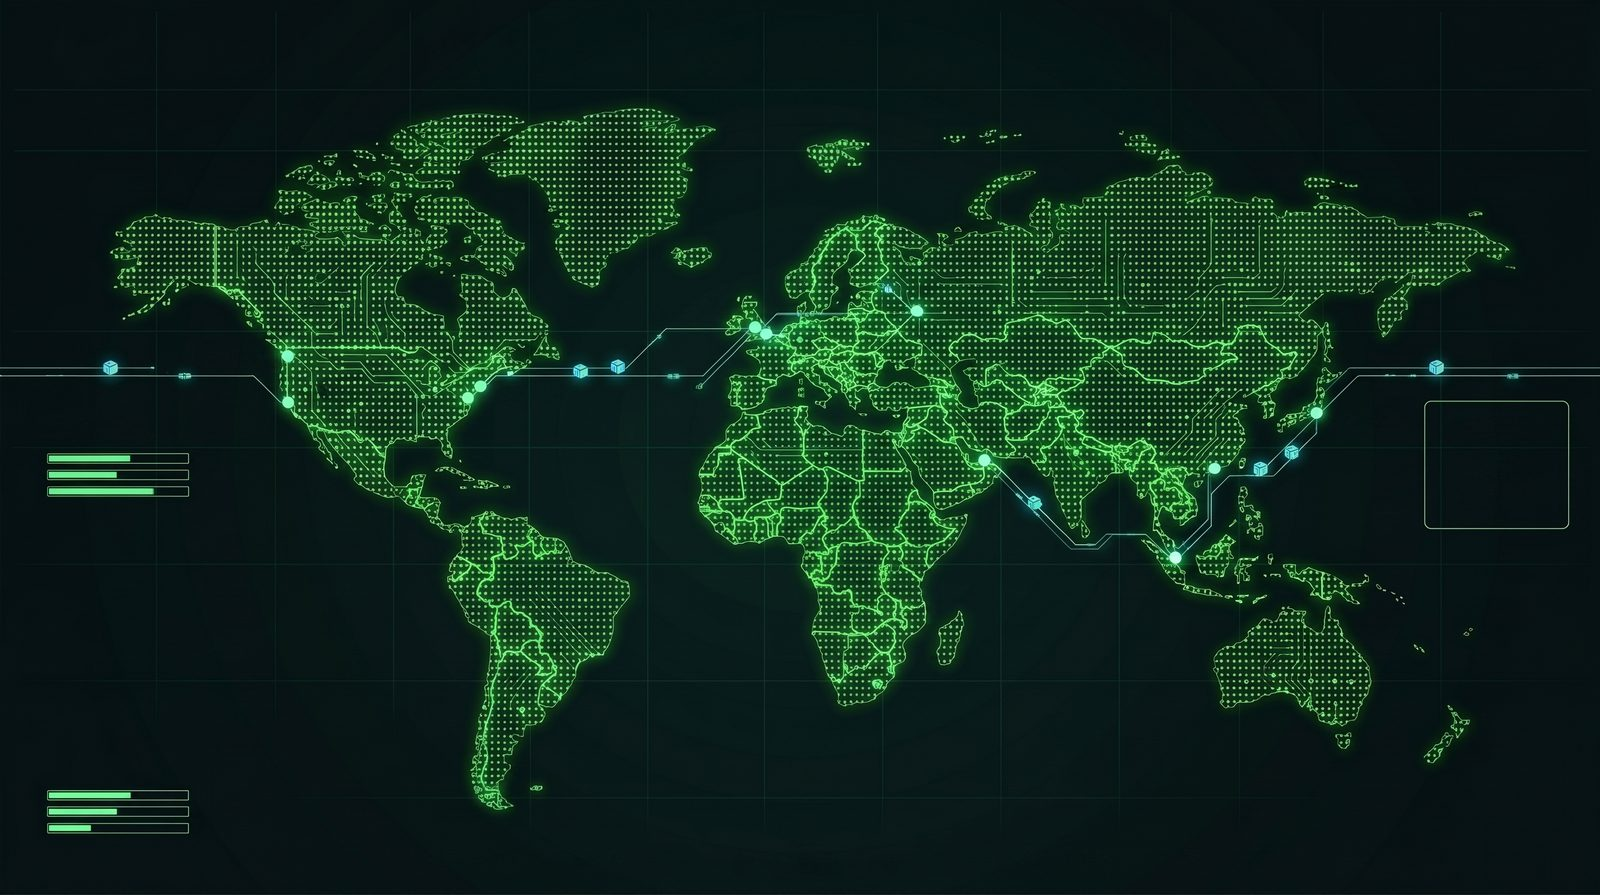
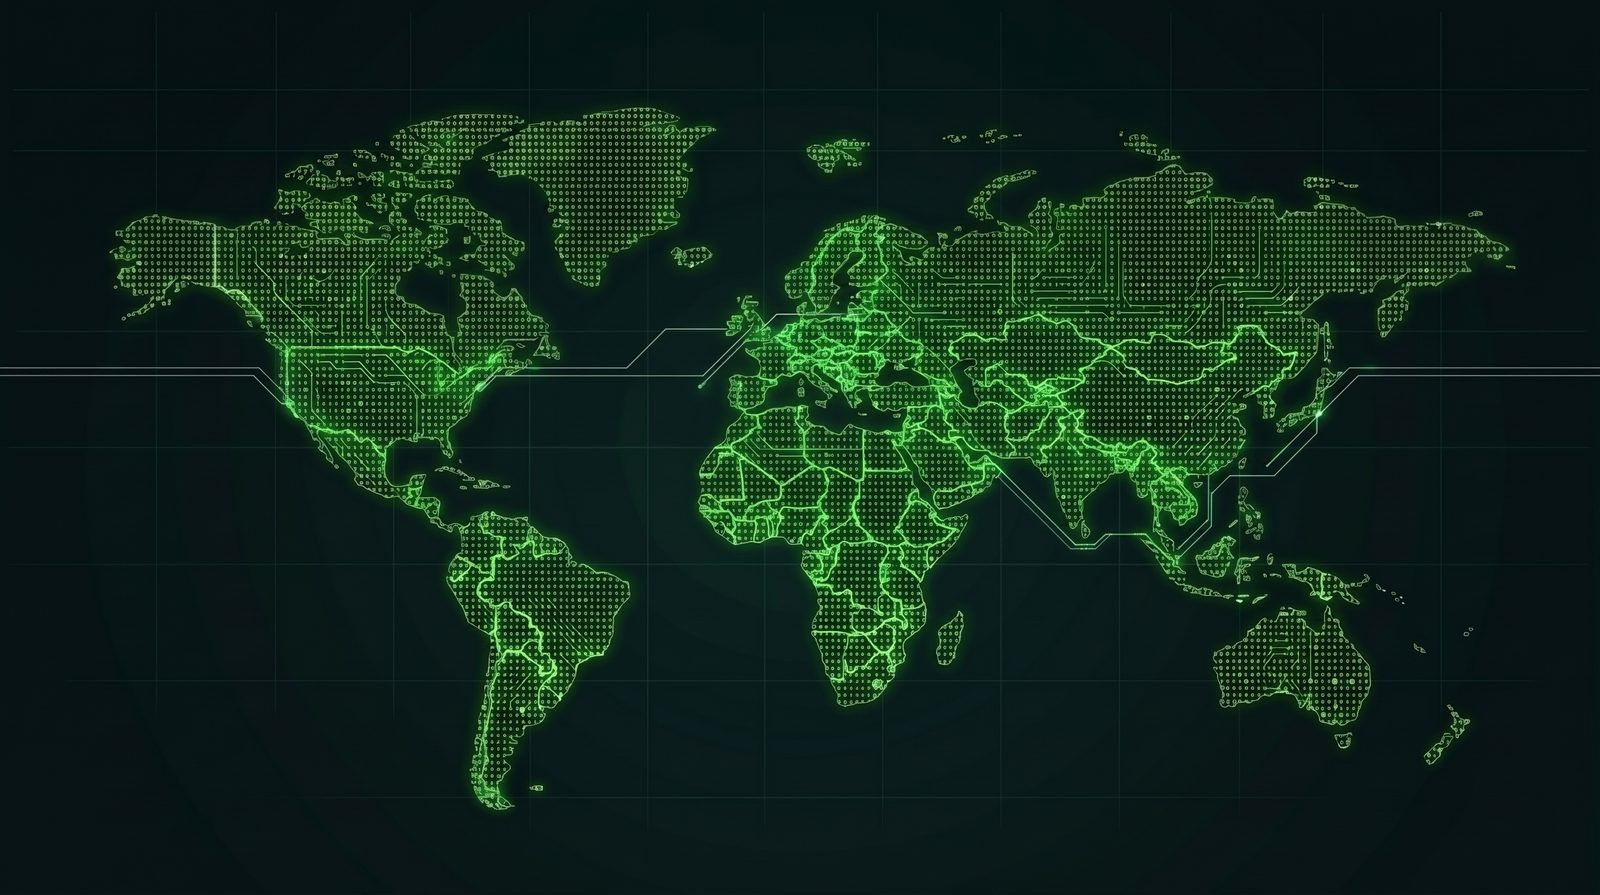
v0.9.1: replace cyber basemap with the intended art

diff --git a/cmd/gpewebdefender/main.go b/cmd/gpewebdefender/main.go
@@ -27,7 +27,7 @@ import (
 	"gpewebdefender/rules"
 )
 
-const version = "0.9.0"
+const version = "0.9.1"
 
 func main() {
 	log.SetFlags(0)
